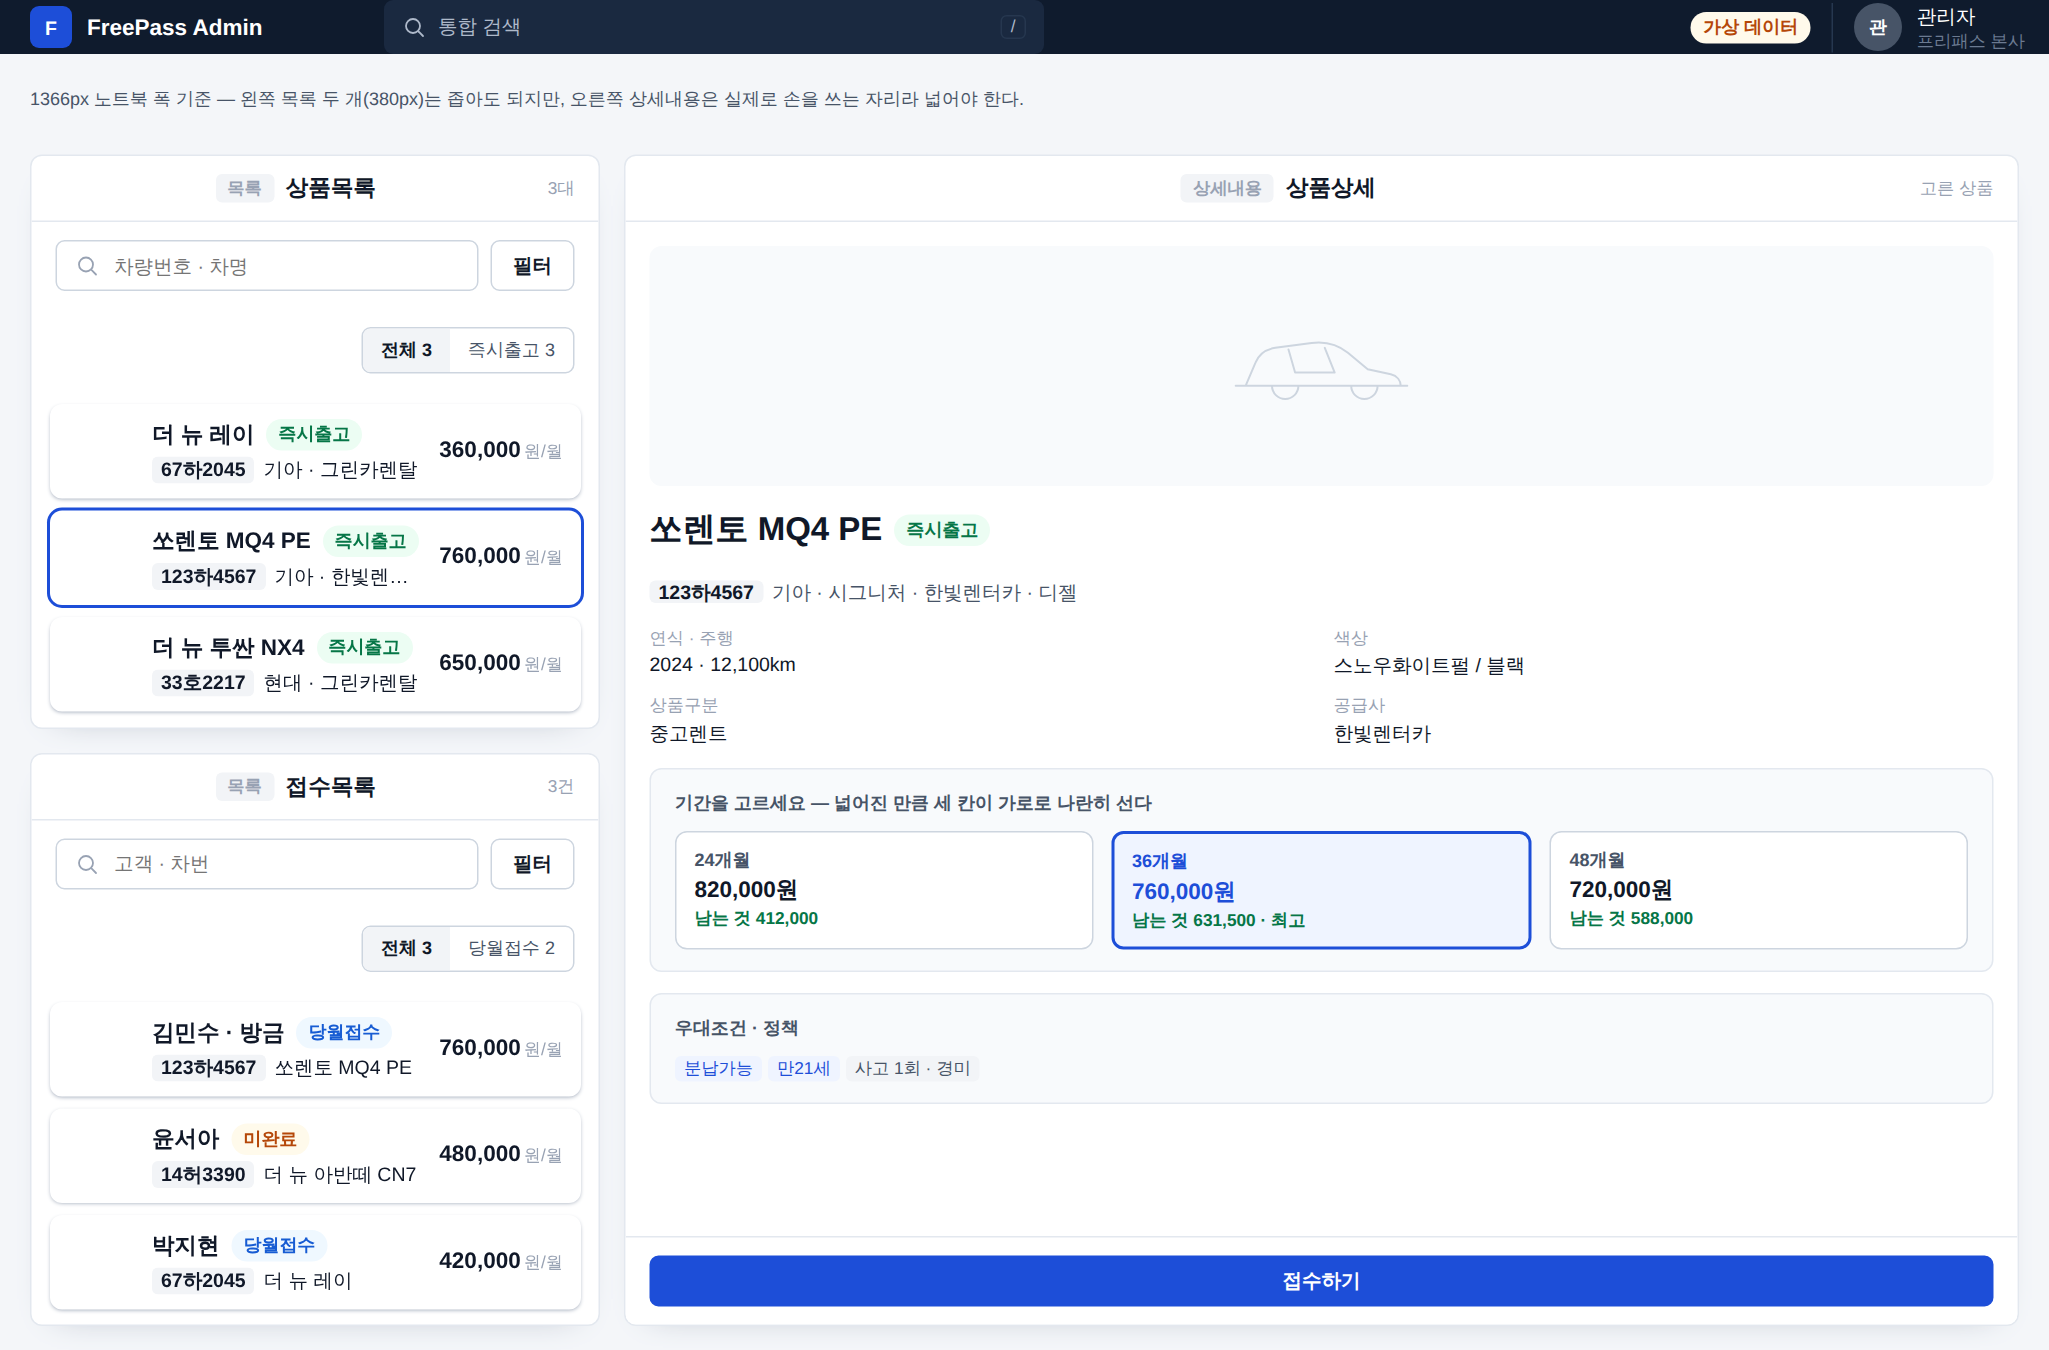
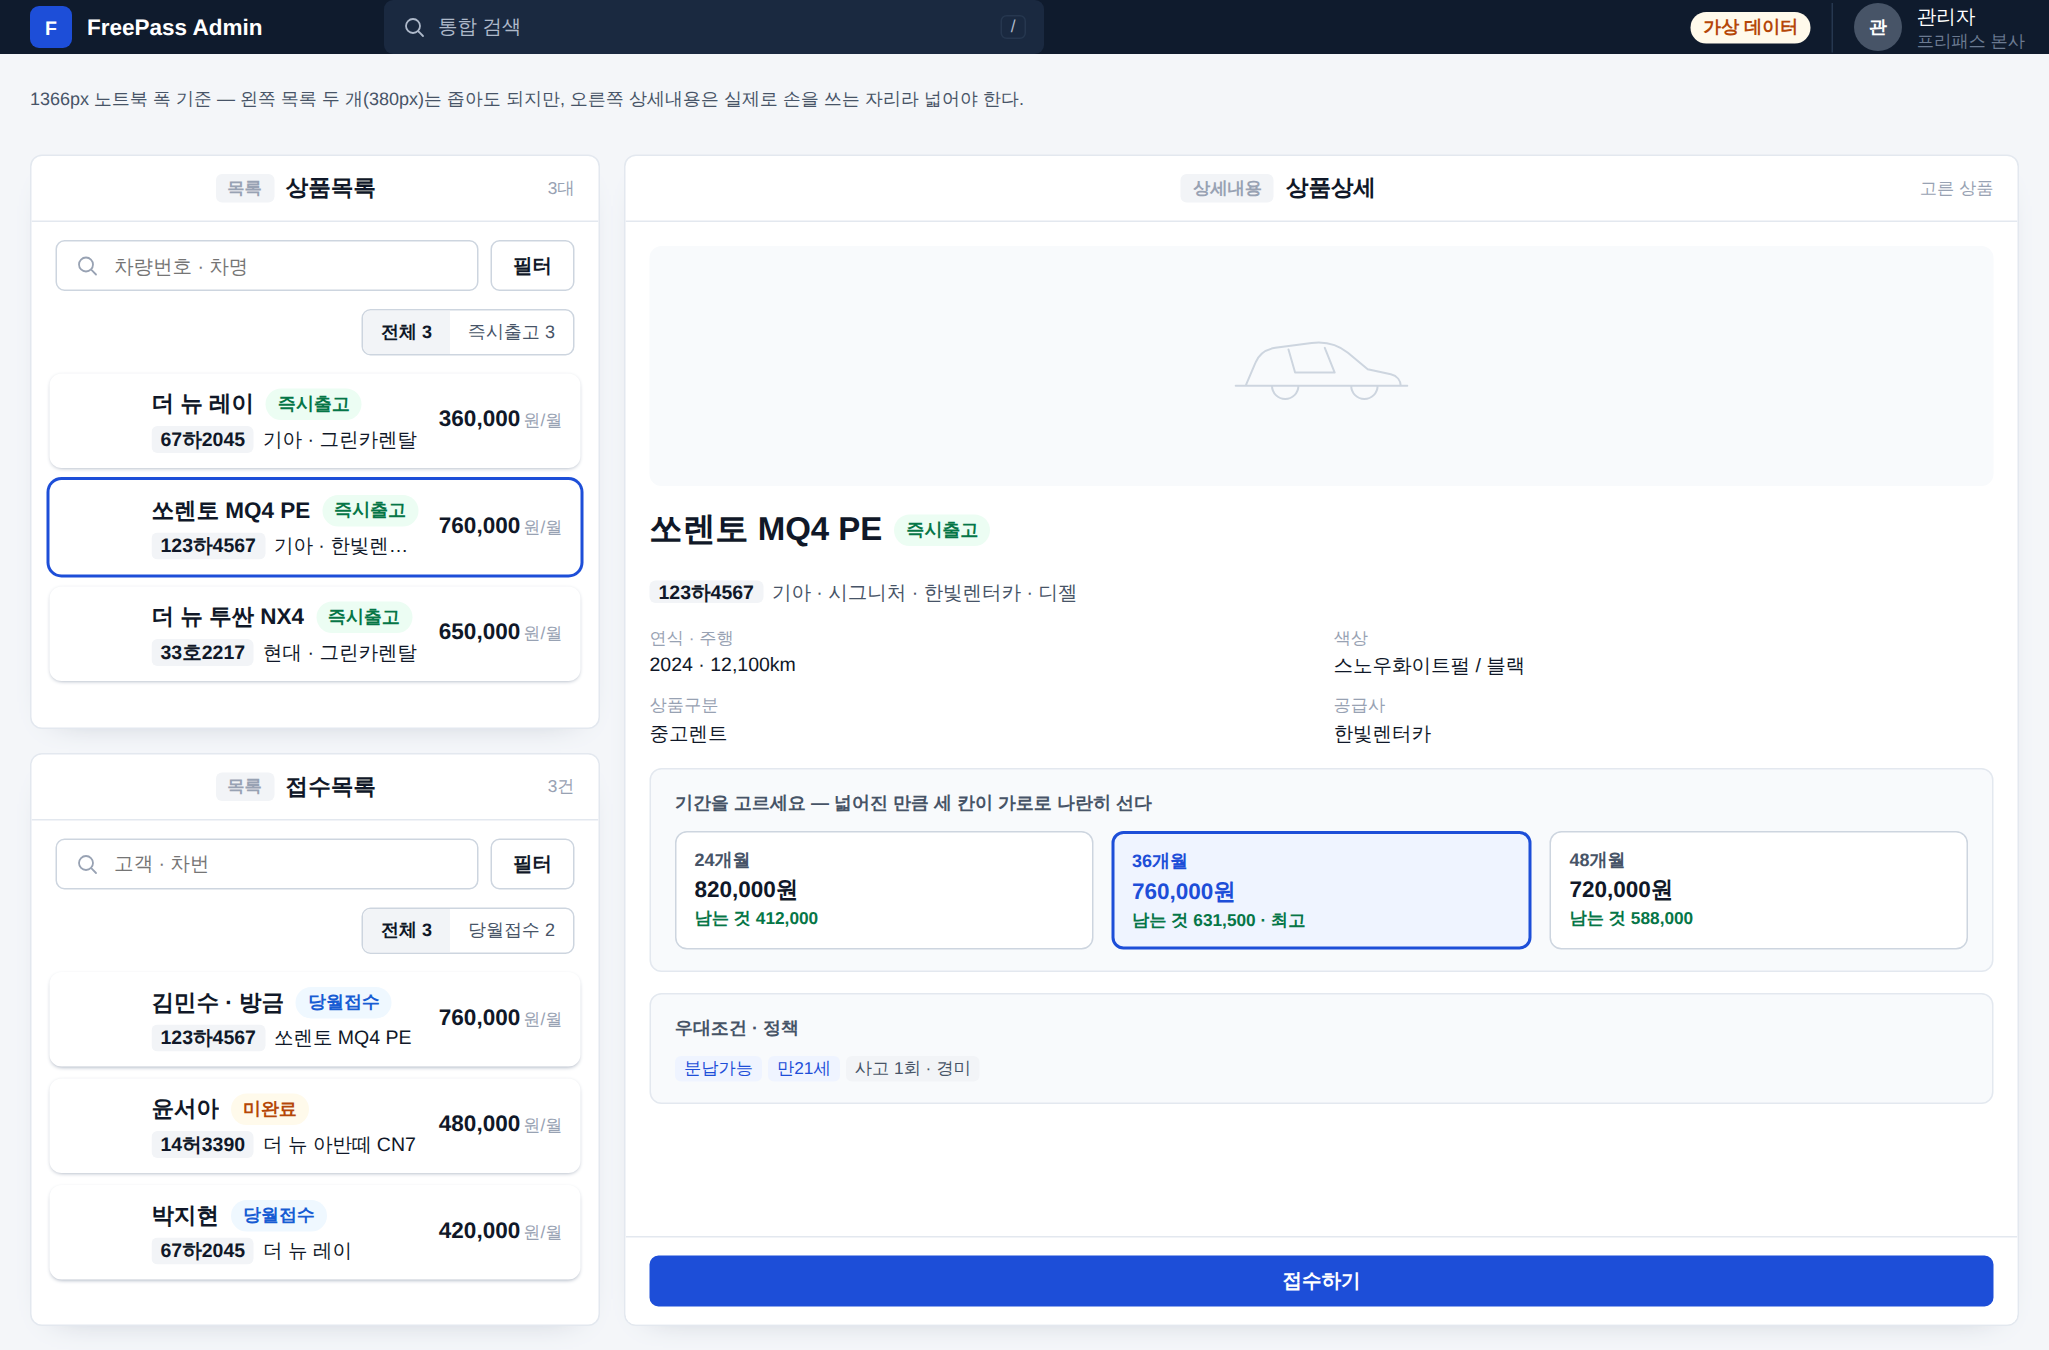
좁은 패널 간격 어긋남 고치고 대여료 섹션 배경·문구를 심플하게
대표 2026-09-24: "검색창하고 빠른 필터하고 목록하고 간격이 좀 이상하고
간격 좀 확실히 좀 보고 그리고 왜 쓸데없는 글씨들을 좀 이렇게 넣어놨니
기간을 골라 대여료를 확인하세요 그 뒤에 배경이 왜 있어 배경이 없어야
되는 것들은 배경이 없고 텍스트만 있어야 될 거는 텍스트만 있고 … 심플하게"

1. 좁은 패널(erp-panel--compact)은 검색창·퀵 필터 밑 구분선을 지운
   상태라, 위 부품 아래 패딩 + 아래 부품 위 패딩이 그대로 더해져
   구간마다 간격이 달랐다(검색창→퀵필터 24px, 퀵필터→카드 20px).
   위쪽 부품의 아래 패딩을 0으로 접어 다음 부품의 위 패딩 하나만
   남겨서 검색창→퀵필터→카드 전 구간을 12px로 통일했다.
2. sv-terms-main의 sunken 배경 판을 없앴다 — 안의 대여료 카드가
   이미 각자 그림자로 떠 있어 감싸는 배경이 군더더기였다. 소제목도
   "기간을 골라 대여료를 확인하세요" 안내문 대신 다른 섹션과 같은
   짧은 이름표("대여료")로 줄였다.

Claude-Session: https://claude.ai/code/session_01VHqvSXhUy82o1cFFrYMP3F

diff --git a/design/erp-standard/reference/side-by-side.css b/design/erp-standard/reference/side-by-side.css
@@ -40,17 +40,19 @@ body.ref-page { margin: 0; padding: 0; height: 100vh; display: flex; flex-direct
  * (예전엔 fs-title(22px)까지 써서 대여료 숫자만 유난히 튀었다 — fs-section 으로 낮춰 나머지 강조
  * 요소(카드 목록 금액, 상품명)와 같은 단계로 맞췄다.) */
 
-/* ② 대여료 선택 — 메인(대표 2026-09-24 「기간별 대여료 선택을 하는 걸 메인으로」): 옅은 배경 판 위에 크게.
- * 배경 판이 좌우로 var(--erp-sp-3) 만큼 카드를 더 안쪽으로 밀어서, 카드 좌우 끝이 아래 설명하는 카드
- * (sv-ref-card)보다 12px 안으로 들어가 있었다(대표 2026-09-24 「대여료 카드는 좌우가 또 안 맞는데 …
- * 카드 규격은 다 동일해야지」). 배경 판은 위아래로만 여백을 주고 좌우는 0으로 — 카드 좌우 끝이
- * sv-detail-body 패딩 하나로만 정해지게 해서 이 패널의 모든 카드가 정확히 같은 좌우 위치에 선다. */
-.sv-terms-main { padding: var(--erp-sp-3) 0 2px; border-radius: var(--erp-r-lg); background: var(--erp-color-sunken); }
+/* ② 대여료 선택 — 메인(대표 2026-09-24 「기간별 대여료 선택을 하는 걸 메인으로」). 처음엔 옅은 배경
+ * 판을 깔았는데, 배경 판이 좌우로 var(--erp-sp-3) 만큼 카드를 더 안쪽으로 밀어서 카드 좌우 끝이 아래
+ * 설명하는 카드(sv-ref-card)보다 12px 안으로 들어가 있었다(대표 2026-09-24 「대여료 카드는 좌우가 또
+ * 안 맞는데 … 카드 규격은 다 동일해야지」→ 배경 판 좌우 패딩을 0으로 없애 임시로 맞춤). 그 뒤 「배경이
+ * 없어야 되는 것들은 배경이 없고, 텍스트만 있어야 될 거는 텍스트만」 지시로 배경 판 자체를 없앴다 —
+ * 이 구간은 카드 셋(sv-term)이 이미 각자 카드로 떠 있어서 감싸는 배경이 필요 없었다. 지금은 sv-staff-ref
+ * 와 똑같이 소제목 텍스트(margin-bottom 은 .sv-section-title 기본값 8px) + 카드 목록만 남는다 —
+ * sv-terms-main 자체는 더 이상 스타일이 필요 없다. */
 .sv-section-title--main { color: var(--erp-color-text); font-size: var(--erp-fs-label); font-weight: var(--erp-fw-bold); }
-.sv-terms { display: flex; flex-direction: column; gap: var(--erp-sp-2); padding-bottom: var(--erp-sp-3); }
+.sv-terms { display: flex; flex-direction: column; gap: var(--erp-sp-2); }
 /* 카드 구분을 테두리 선 대신 그림자로(대표 2026-09-24 「이 카드가 라인이 없이 좀 구분이 됐으면
- * 좋겠다」) — sv-term 은 옅은 sunken 배경 판 위에 옅은 그림자로 떠 보이고, sv-ref-card 는 배경색이
- * 패널과 같아 그림자만으로 뜬다(마치 종이가 겹쳐 있는 느낌). 골랐을 때(aria-pressed)만 Primary 색
+ * 좋겠다」) — sv-term 도 sv-ref-card 도 이제 배경색이 패널과 같은 surface 라 그림자만으로 뜬다
+ * (마치 종이가 겹쳐 있는 느낌). 골랐을 때(aria-pressed)만 Primary 색
  * 그림자 테로 구분한다 — 그때도 border 가 아니라 box-shadow 다. */
 /* 핵심 정보는 기간 · 대여료 · 보증금 셋이다(대표 2026-09-24 「대여료만 강조하는 게 아니고 기간 대여료
  * 보증금이 가장 핵심 정보지 우리 대여에서는」) — 1행에 기간 · 대여료, 2행에 보증금을 같은 무게로 둔다.

diff --git a/design/erp-standard/erp.css b/design/erp-standard/erp.css
@@ -477,4 +477,12 @@
  * 붙어 지저분해졌다(대표 2026-09-24 「검색창이랑 목록카드 사이에 라인 없애자」). 좁은 패널에서는 지운다 —
  * 카드 목록의 sunken 배경색만으로도 위 검색 영역과 구분이 된다. */
 .erp-panel--compact .erp-searchbar, .erp-panel--compact .erp-toolbar { border-bottom: 0; }
+/* 간격 규격(대표 2026-09-24 「검색창하고 빠른 필터하고 목록하고 간격이 좀 이상하고」) — 테두리 선이 있는
+ * 원안(§5-1)은 검색창 · 퀵 필터가 각자 위아래 패딩을 갖고 그 사이에 선이 있어도 자연스러운데, 좁은 패널은
+ * 위에서 선을 지웠기 때문에 두 부품이 각자의 아래 패딩 + 위 패딩을 더해서(12+12=24px, 12+8=20px) 구간마다
+ * 간격이 서로 다르게 보였다. 좁은 패널에서는 아래쪽 패딩을 0으로 접어 다음 부품의 위쪽 패딩 하나만
+ * 간격으로 남긴다 — 검색창 → 퀵 필터 → 카드 목록까지 전부 var(--erp-sp-3)(12px) 한 값으로 고르다. */
+.erp-panel--compact .erp-searchbar { padding-bottom: 0; }
+.erp-panel--compact .erp-toolbar { padding-top: var(--erp-sp-3); padding-bottom: 0; }
+.erp-panel--compact .erp-rowcards { padding-top: var(--erp-sp-3); }
 .erp-rowcard-title .erp-badge, .erp-rowcard-title small { flex: none; }

diff --git a/design/erp-standard/reference/side-by-side.html b/design/erp-standard/reference/side-by-side.html
@@ -64,9 +64,11 @@
           </div>
         </div>
 
-        <!-- ② 대여료(기간별) 선택 — 메인 (대표 2026-09-24 「기간별 대여료 선택을 하는 걸 메인으로」) -->
+        <!-- ② 대여료(기간별) 선택 — 메인 (대표 2026-09-24 「기간별 대여료 선택을 하는 걸 메인으로」).
+             섹션 제목은 카드 안에 이미 다 있는 내용을 다시 풀어 쓰지 않는다(대표 2026-09-24 「쓸데없는
+             글씨들을 넣어놨니, 텍스트만 있어야 될 거는 텍스트만」) — 배경 없이 짧은 소제목만 둔다. -->
         <div class="sv-terms-main">
-          <p class="sv-section-title sv-section-title--main">기간을 골라 대여료를 확인하세요</p>
+          <p class="sv-section-title sv-section-title--main">대여료</p>
           <div class="sv-terms">
             <div class="sv-term" aria-pressed="false">
               <div class="sv-term-main"><b>24개월</b><strong>820,000원</strong></div>

diff --git a/design/erp-standard/README.md b/design/erp-standard/README.md
@@ -175,6 +175,23 @@
 좌우 여백은 모든 패널이 `var(--erp-sp-4)`(16px) 하나로 통일돼 있다(패널 머리 · 검색창 · 카드 목록 ·
 상세내용 패널 몸 전부 이 값 아니면 이 값에서 나온 내부 카드 패딩). 확인 그림: `images/side-by-side.png`.
 
+**좁은 패널 — 검색창 · 퀵 필터 · 카드 목록 사이 간격이 구간마다 달랐던 것 고침** (대표 2026-09-24 「검색창하고
+빠른 필터하고 목록하고 간격이 좀 이상하고」). 위에서 세 부품 패딩을 전부 `var(--erp-sp-3)`(12px)로
+맞췄다고 적었지만, **좁은 패널(`erp-panel--compact`)은 검색창 · 퀵 필터 밑 구분선을 지운 상태**라 실제
+간격은 위 부품의 아래쪽 패딩과 아래 부품의 위쪽 패딩이 그대로 더해졌다 — 검색창→퀵 필터는 12+12=24px,
+퀵 필터→카드 목록은 12+8=20px로 구간마다 달랐다(선이 있는 원안은 선이 한쪽 패딩을 "흡수"해서 이 문제가
+없다). 좁은 패널에서만 위쪽 부품의 아래 패딩을 0으로 접어 **다음 부품의 위쪽 패딩 하나만 간격으로
+남긴다** — `erp-searchbar`(아래 패딩 0) → `erp-toolbar`(위 12px · 아래 0) → `erp-rowcards`(위 12px)로
+검색창 → 퀵 필터 → 카드 목록까지 전 구간이 정확히 12px 하나로 고르다.
+
+**대여료 섹션 — 꾸밈 배경과 군더더기 문구 제거** (대표 2026-09-24 「기간을 골라 대여료를 확인하세요 그
+뒤에 배경이 왜 있어, 배경이 없어야 되는 것들은 배경이 없고 텍스트만 있어야 될 거는 텍스트만 있고 … 심플하게」).
+`sv-terms-main`에 옅은 sunken 배경 판을 깔아 놨었는데, 안의 대여료 카드(`sv-term`)가 이미 각자 그림자로
+떠 있어서 감싸는 배경이 군더더기였다 — `sv-staff-ref`(배경 없음)와 똑같이 배경을 없앴다. 소제목도
+"기간을 골라 대여료를 확인하세요"라는 안내문 대신 카드 목록 위 다른 섹션들과 같은 짧은 이름표
+("대여료")로 줄였다 — 카드 안에 이미 기간 · 금액 · 보증금이 다 있어서 문장으로 다시 설명할 필요가 없다.
+확인 그림: `images/side-by-side.png`.
+
 ## 5-5. 목록 카드 — 대상별 규격 (FreePass Admin, 대표 2026-09-24)
 
 「목록 카드를 세 줄로 관리하고, 접수 목록에서는 이 접수가 지금 어느 단계인지 명확하게 — 목록 카드 성격별로 정확하게」.
